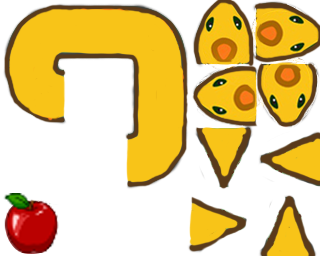
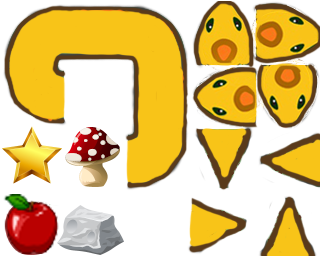
powerup
added star poiwerup

diff --git a/snake.js b/snake.js
@@ -289,6 +289,9 @@ window.onload = function() {
     var level = new Level(20, 15, 32, 32);
     
     // Variables
+    var ispowerspawned = 0;
+    var count=5;
+    var powerup = 0;
     var score = 0;              // Score
     var gameover = true;        // Game is over
     var gameovertime = 1;       // How long we have been game over
@@ -368,6 +371,38 @@ window.onload = function() {
             }
         }
     }
+
+    // Add an power up to the level at an empty position
+    function addPowerUp() {
+        // Loop until we have a valid apple
+        var valid = false;
+        while (!valid) {
+            // Get a random position
+            var ax = randRange(0, level.columns-1);
+            var ay = randRange(0, level.rows-1);
+            
+            // Make sure the snake doesn't overlap the new apple
+            var overlap = false;
+            for (var i=0; i<snake.segments.length; i++) {
+                // Get the position of the current snake segment
+                var sx = snake.segments[i].x;
+                var sy = snake.segments[i].y;
+
+                // Check overlap
+                if (ax == sx && ay == sy) {
+                    overlap = true;
+                    break;
+                }
+            }
+            
+            // Tile must be empty
+            if (!overlap && level.tiles[ax][ay] == 0) {
+                // Add an apple at the tile position
+                level.tiles[ax][ay] = 3;
+                valid = true;
+            }
+        }
+    }
     
     // Main loop
     function main(tframe) {
@@ -418,6 +453,16 @@ window.onload = function() {
             gameovertime += dt;
         }
     }
+
+    function addScore(){
+        if(powerup == 1){
+            score = score +2;
+        }
+        else{
+            score++;
+        }
+
+    }
     
     function updateGame(dt) {
         // Move the snake
@@ -460,15 +505,47 @@ window.onload = function() {
                         
                         // Add a new apple
                         addApple();
-                        
+                        //Power up
+                        var seed = Math.floor(Math.random() * 101);
+                        console.log(seed);
+                        if(seed < 80 && powerup == 0 && ispowerspawned == 0){
+                            addPowerUp();
+                            ispowerspawned = 1;
+                        }
                         // Grow the snake
                         snake.grow();
                         
                         // Add a point to the score
-                        score++;
+                        addScore();
                         document.getElementById("score").innerHTML = "Score: " + score;
                     }
-                    
+
+                    if(level.tiles[nx][ny]==3){
+                        level.tiles[nx][ny] = 0;
+                        ispowerspawned = 0;
+
+                        invertColors();
+                        
+                        powerup = 1;               
+                        var count=5;
+
+                        var counter=setInterval(timer, 1000); //1000 will  run it every 1 second
+
+                        function timer()
+                        {
+                        count=count-1;
+                        if (count <= 0)
+                        {
+                            clearInterval(counter);
+                            invertColors();
+                            powerup = 0;
+                            //counter ended, do something here
+                            return;
+                        }
+
+                        //Do code for showing the number of seconds here
+                        }
+                    }                    
 
                 }
             } else {
@@ -506,18 +583,46 @@ window.onload = function() {
                         
                         // Add a new apple
                         addApple();
-                        
+                        //Power up
+                        var seed = Math.floor(Math.random() * 101);
+                        console.log(seed);
+                        if(seed < 80 && powerup == 0 && ispowerspawned == 0){
+                            addPowerUp();
+                            ispowerspawned = 1;
+                        }
                         // Grow the snake
                         snake.grow();
                         
                         // Add a point to the score
-                        score++;
+                        addScore();
                         document.getElementById("score").innerHTML = "Score: " + score;
+                    }
+
+                    if(level.tiles[nx][ny]==3){
+                        level.tiles[nx][ny] = 0;
+
+                        invertColors();
+                        powerup = 1;
+                        var count=5;
+
+                        var counter=setInterval(timer, 1000); //1000 will  run it every 1 second
                         
+                        function timer()
+                        {
+                          count=count-1;
+                          if (count <= 0)
+                          {
+                             clearInterval(counter);
+                             invertColors();
+                             powerup = 0;
+                             //counter ended, do something here
+                             return;
+                          }
+                        
+                          //Do code for showing the number of seconds here
+                        }
                     }
                 }
-                
-                
             }
             
             if (gameover) {
@@ -552,6 +657,7 @@ window.onload = function() {
             
         // Game over
         if (gameover) {
+            ispowerspawned = 0;
             //var hs = document.getElementById("highscore").innerHTML;
             //high score stuff
             //
@@ -599,6 +705,20 @@ window.onload = function() {
                     // Draw the apple image
                     var tx = 0;
                     var ty = 3;
+                    var tilew = 64;
+                    var tileh = 64;
+                    context.drawImage(tileimage, tx*tilew, ty*tileh, tilew, tileh, tilex, tiley, level.tilewidth, level.tileheight);
+                }
+                else if (tile == 3){
+                    // Star
+                    
+                    // Draw star background
+                    context.fillStyle = "#f7e697";
+                    context.fillRect(tilex, tiley, level.tilewidth, level.tileheight);
+                    
+                    // Draw the apple image
+                    var tx = 0;
+                    var ty = 2;
                     var tilew = 64;
                     var tileh = 64;
                     context.drawImage(tileimage, tx*tilew, ty*tileh, tilew, tileh, tilex, tiley, level.tilewidth, level.tileheight);
@@ -817,6 +937,34 @@ window.onload = function() {
             
         }
     }
+
+
+
+    function invertColors() { 
+        // the css we are going to inject
+        var css = 'html {-webkit-filter: invert(100%);' +
+            '-moz-filter: invert(100%);' + 
+            '-o-filter: invert(100%);' + 
+            '-ms-filter: invert(100%); }',
+        
+        head = document.getElementsByTagName('head')[0],
+        style = document.createElement('style');
+        
+        // a hack, so you can "invert back" clicking the bookmarklet again
+        if (!window.counter) { window.counter = 1;} else  { window.counter ++;
+        if (window.counter % 2 == 0) { var css ='html {-webkit-filter: invert(0%); -moz-filter:    invert(0%); -o-filter: invert(0%); -ms-filter: invert(0%); }'}
+         };
+        
+        style.type = 'text/css';
+        if (style.styleSheet){
+        style.styleSheet.cssText = css;
+        } else {
+        style.appendChild(document.createTextNode(css));
+        }
+        
+        //injecting the css to the head
+        head.appendChild(style);
+        };
     
     
     // Call init to start the game

diff --git a/game.html b/game.html
@@ -6,12 +6,12 @@
     <form action="index.html" class="radio radio--difficulty" id="settings" method="GET">
         Map Difficulty
         <br><input type="radio" name="diff" value="Easy" > Easy
-        <input type="radio" name="diff" value="Medium"> Medium
+        <input type="radio" name="diff" value="Medium" checked> Medium
         <input type="radio" name="diff" value="Hard"> Hard
 
         <br>Snake Speed
-        <br><input type="radio" name="speed" value="Easy" > Easy
-        <input type="radio" name="speed" value="Medium"> Medium
+        <br><input type="radio" name="speed" value="Easy"> Easy
+        <input type="radio" name="speed" value="Medium" checked> Medium
         <input type="radio" name="speed" value="Hard"> Hard
 
     </form>
